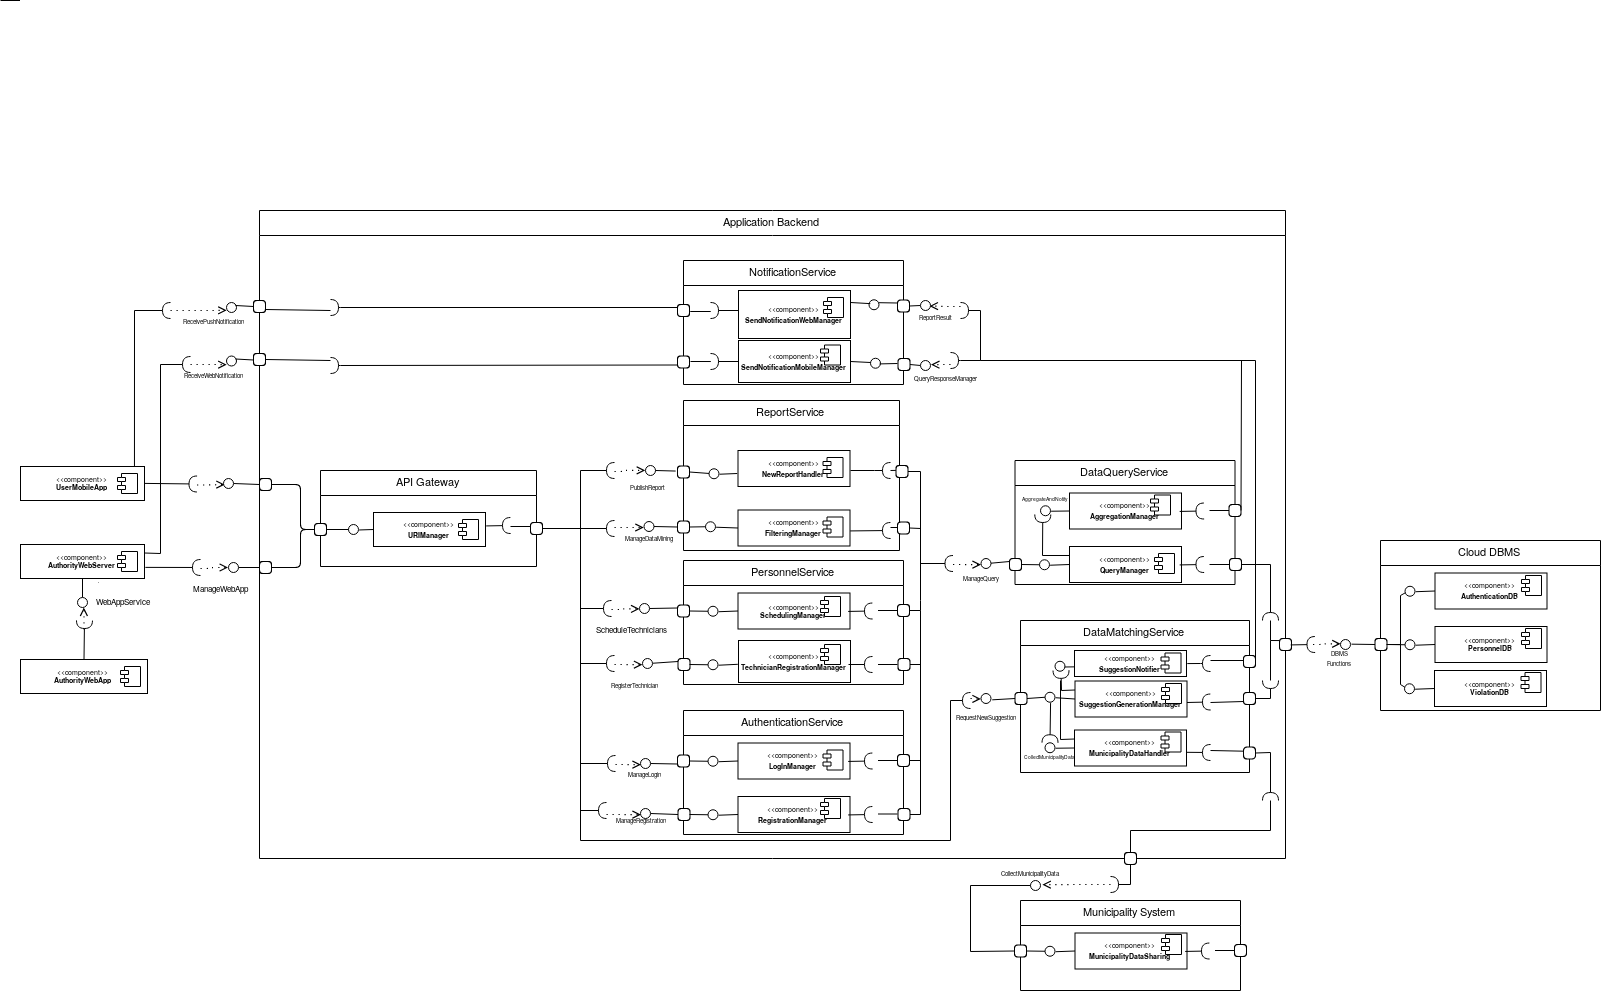
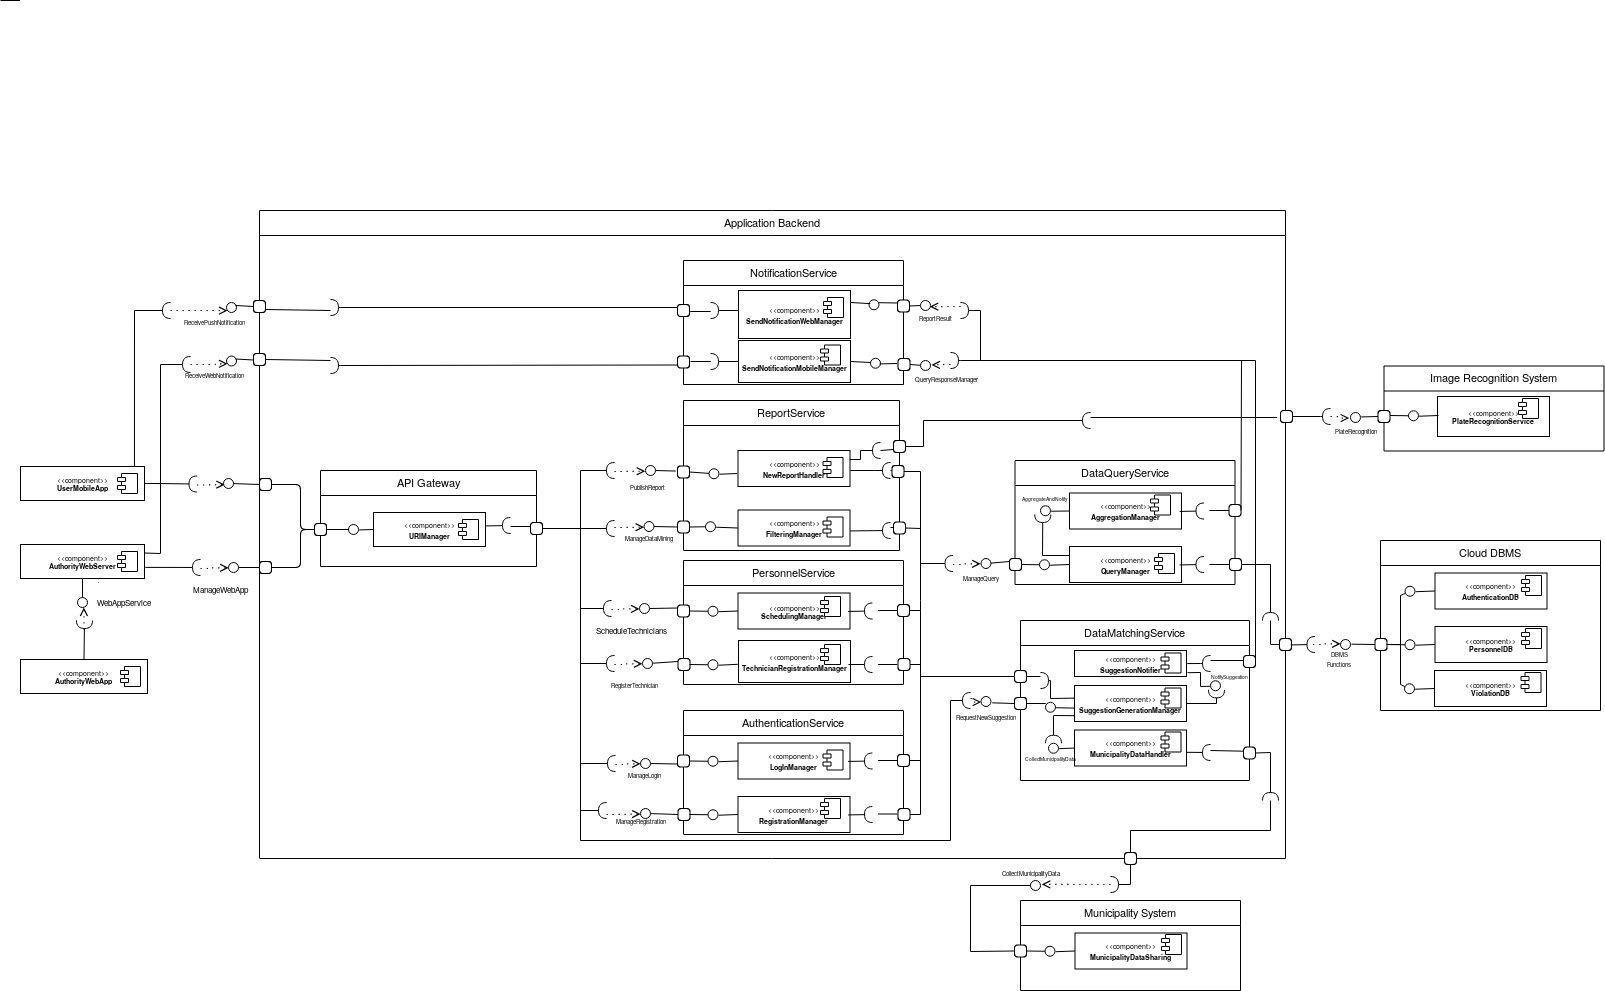
Add detailed description of component diagram

diff --git a/DD/Sections/2-Architectural_Design/Component_view.tex b/DD/Sections/2-Architectural_Design/Component_view.tex
@@ -1,4 +1,4 @@
-The \ref{fig:component_diagram} represents the Safestreets component diagram. Each of the components are wrapped inside a specific box that indicates the subsystem in which they belong to.
+The figure \ref{fig:component_diagram} represents the Safestreets component diagram. Each of the components are wrapped inside a specific box that indicates the subsystem in which they belong to.
 \newline Subsystems are groups of components which perform similar operations: this boxing technique is a multilayer logical division that can be useful in order to categorize the components and the whole system at different layers of abstraction.
 \newline For the sake of simplicity, the component diagram pictures the application layer (backend) of the system and not the mobile and web app structures. The business logic and core functions are fully contained in the application layer and therefore only that relevant part of the Safestreets system has been characterized.
 \begin{figure}[H]
@@ -7,29 +7,54 @@ The \ref{fig:component_diagram} represents the Safestreets component diagram. Ea
     \caption{Component UML diagram}
     \label{fig:component_diagram}
 \end{figure}
+From the figure \ref{fig:component_diagram} it is possible to identify several subsystem of the application backend system. Here it is a detailed list of the subsystems:
+\begin{itemize}
+    \item \textbf{API Gateway}: this subsystem is responsible for handling all the request coming from the frontend applications (web and mobile) and routing them into the appropriate components;
+    \item \textbf{ReportService}: this subsystem is responsible for handling all the operations related to the violation reports. It interacts directly with the image recognition service in order to retrieve the license plate transctiptions;
+    \item \textbf{PersonnelService}: this subsystem is responsible for handling all the operations related to the personnel management, such as registering new technicians and scheduling them to reports. This subsystem is accessible only by LSA accounts;
+    \item \textbf{AuthenticationService}: this subsystem is responsible for handling the login and registration operations;
+    \item \textbf{SuggestedInterventionServie}: this subsystem is responsible for handling the operation related to the request of suggested interventions. It interacts directly with the municipality system in order to retrieve car accident information;
+    \item \textbf{DataQueryService}: this subsystem is responsible for handling all the operations that requires a database interaction. It is responsible for interacting with the Cloud DBMS in order to retrieve all the information required by the application backend;
+    \item \textbf{NotificationService}: this subsystem is responsible for forwarding results of the computation to the frontend applications (web and mobile).
+\end{itemize} 
 Here it is a detailed explanation for each of the components shown in the component diagram:
 \begin{itemize}
-    \item 
-    \item 
-    \item 
-    \item 
-    \item 
-    \item 
-    \item 
-    \item 
-    \item 
-    \item 
-    \item 
-    \item 
-    \item 
-    \item 
-    \item 
-    \item 
-    \item 
-    \item 
-    \item 
-    \item 
-    \item 
-    \item 
-    \item 
+    \item \textbf{AuthorityWebApp}: this component represents the web application that LSAs and technicians are supposed to use in order to perform any operation with the Safestreets system. In particular, the web app is the end-user application, therefore it is only a frontend interface;
+    \item \textbf{AuthorityWebServer}: this component represents the web server that hosts the web application used by LSAs and technicians. The web server receives all the HTTP requests from the AuthorityWebApp and forwards them to the application backend system. Moreover, the web server notifies the web application when the responses of the previous requests are forwarded from the Notification Service;
+    \item \textbf{UserMobileApp}: this component represents the mobile application which users interacts with. When users need to perform a specific function offered by the system, the mobile application automatically forwards it to the application backend system. Moreover, the application is always listening for push notifications coming from the Notification service in case one of the previously reported violation is updated by the technicians;
+    \item \textbf{URIManager}: this component is responsible for forwarding the requests coming from the frontend system to the backend subsystem which is able to handle the specific request. This routing is possible thanks to the target URI of the frontend request, that uniquely identify the associated component of the application backend system;
+    \item \textbf{NewReportHandler}:this component handles the newly reported violation that are forwarded from the URIManager. The NewReportHandler is responsible for checking the correctness of the new reported data and to delegate the plate recognition to the PlateRecognitionService which is external with respect to the Safestreets system. Once the report has been verified and the plate transctiption has been gathered, the report is forwarded to the QueryManager, specifying an insertion request;
+    \item \textbf{PlateRecognitionService}: this component is external from the Safestreets system. It has been created for graphical purposes and it is treated as a black box: given a plate image, it is able to transcribe the license plate and give it back to the NewReportHandler;
+    \item \textbf{FilteringManager}: this component is responsible for formulating mining operations. The URIManager forwards the mining information to the FilteringManager, which gathers and aggregate all the query parameter and forwards the formally complete query to the QueryManager specifying a select request;
+    \item \textbf{SchedulingManager}: this component is responsible for performing the association between technicians and reports. This component can be invoked only if the requesting account is a LSA. After a series of checks, the verified requests is wired into a query and it is forwarded to the QueryManager specifying an insert request;
+    \item \textbf{TechnicianRegistrationManager}: this component is responsible for the registration of new technicians into the system. This component can be invoked only if the requesting account is a LSA. The new technicians are directly associated to the requesting LSA. All the needed queries are formulated and forwarded to the QueryManager specifying for each query an insert request;
+    \item \textbf{LoginManager}: this component is responsible for logging into the system both users and authorities. The request forwarded from the URIManager contains a username and a password: an hash is calculated from the password and the (username, hash) tuple is wired into a select query which will be forwarded to the QueryManager, specifying a login request;
+    \item \textbf{RegistrationManager}: this component is responsible for registering new users to the system. After a series of checks, the registration request is wired into a query and forwarded to the QueryManager specifying an insert request;
+    \item \textbf{SuggestionGenerationManager}: this component is responsible for generating suggested interventions when an LSA requests it. The URIManager forwards the generic request of suggestion generation and the system automatically performs the following sequence of actions: 
+    \begin{itemize}
+        \item If not cached, formulate a query on the LSA competence area, asking for the most frequent categories of violations occured in that set of streets;
+        \item Save on a local cache the information;
+        \item Formulate a data request of car accident to the MunicipalityDataHandler and retrieve the response;
+        \item Aggregate the two kind of data and compute suggested interventions;
+        \item Forward the suggested interventions to the SuggestionNotifier.
+    \end{itemize}
+    \item \textbf{MunicipalityDataHandler}: this component is responsible for taking the data requests coming from the SuggestionGenerationManager and formulate them into the municipality standard. Once this operation is performed, the request is forwarded to the MunicipalityDataSharing interface together with an authentication token provided by the municipality. If the token has expired, a new one is requested and the operation is repeated. When data is provided, it is backpropagated to the SuggestionGenerationManager;
+    \item \textbf{MunicipalityDataSharing}: this component is external from the Safestreets system. It has been created for graphical purposes and it is treated as a black box: when a formally correct request is received together with an authentication token, the MunicipalityDataSharing system forwards the requested information to the MunicipalityDataHandler;
+    \item \textbf{SuggestionNotifier}: this component is responsible for forwarding the suggested interventions set to the LSA account web app through the SendNotificationWebManager;
+    \item \textbf{QueryManager}: this component is responsible for interacting with the data layer of the Safestreets system. The QueryManager is able to connect directly with the Cloud DBMS and perform queries on the several databases of the Safestreets system. When this component receives query information, it acts as following: 
+    \begin{itemize}
+        \item Perform queries depending on their kinds: 
+        \begin{itemize}
+            \item Insert: tries to insert the specified data into the database;
+            \item Select: retrieve the filtered data;
+            \item Login: retrieve the specified data and checks wether the result contains at least one correspondency;
+        \end{itemize}
+        \item Forwards the result to the AggregationManager.
+    \end{itemize}
+    \item \textbf{AuthenticationDB}: this component is external from the Safestreets system. It has been created for graphical purposes and it is treated as a black box: it contains all the information associated to the Safestreets accounts;
+    \item \textbf{PersonnelDB}: this component is external from the Safestreets system. It has been created for graphical purposes and it is treated as a black box: it contains all the information associated to personnel of the authorities: any kind of association between LSAs and technicians relation and the technicians schedules;
+    \item \textbf{ViolationDB}: this component is external from the Safestreets system. It has been created for graphical purposes and it is treated as a black box: it contains all the information associated to the violation reports;
+    \item \textbf{AggregationManager}: this component is responsible for packing the retrieved data from the QueryManager into a standard format and forward it to the SendNotificationWebManager or SendNotificationMobileManager depending on the kind of account that performed that specific operation;
+    \item \textbf{SendNotificationWebManager}: this component is responsible for forwarding the result of the requested operation to the web application of the account whom requested such operations;
+    \item \textbf{SendNotificationMobileManager}: this component is responsible for forwarding the result of the requested operation to the mobile application of the account whom requested such operations;
 \end{itemize}
